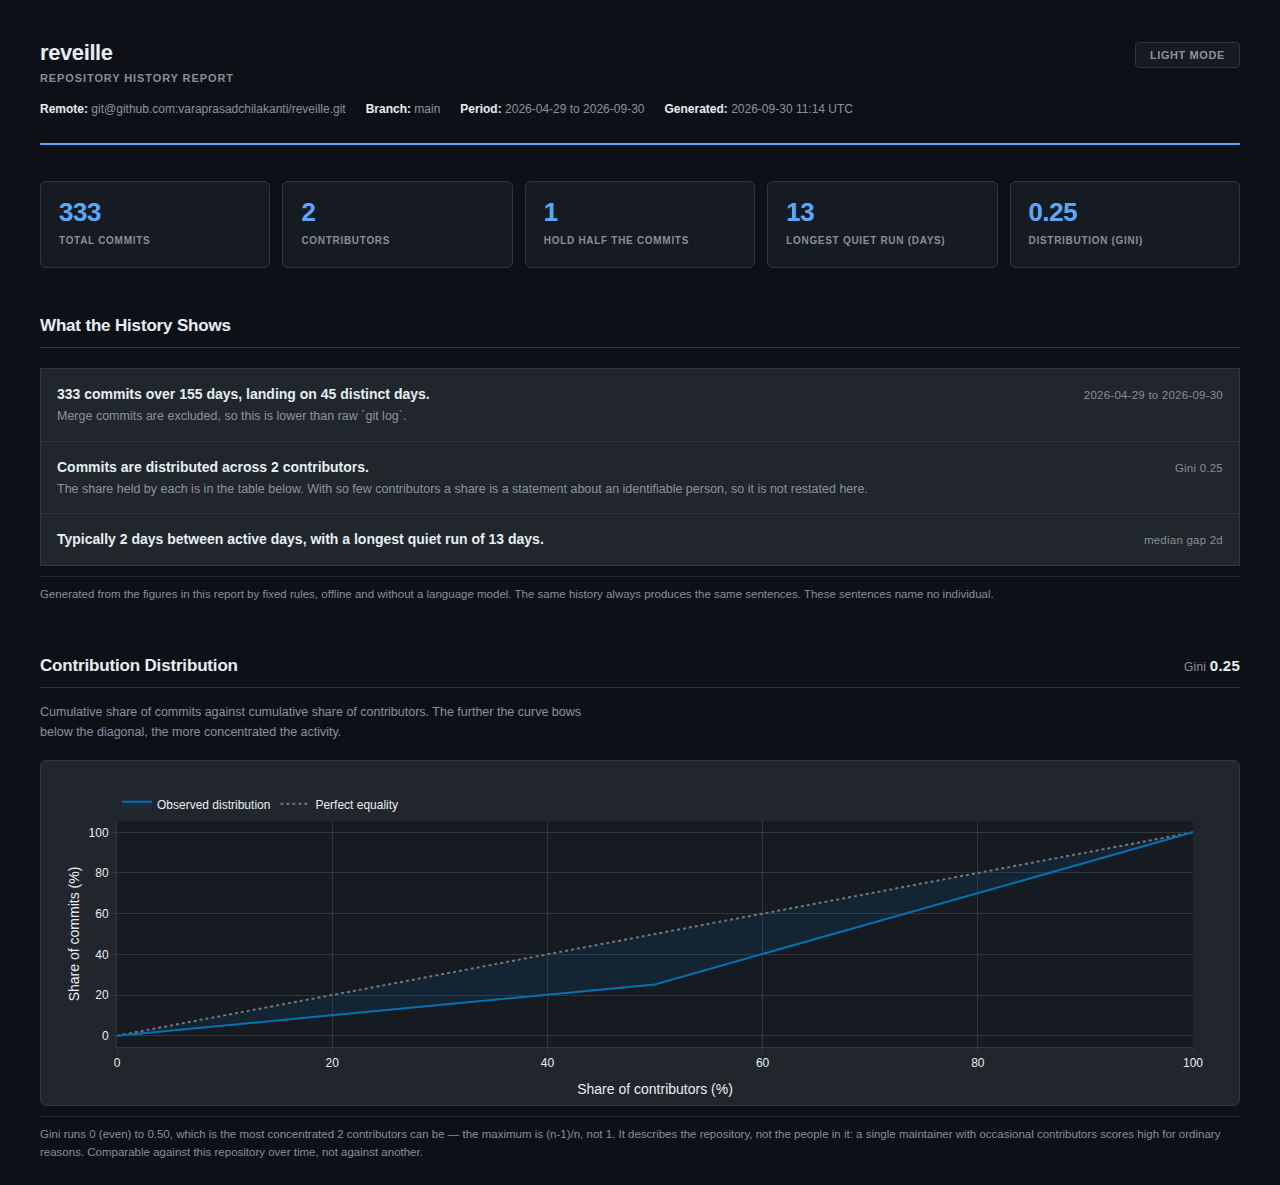
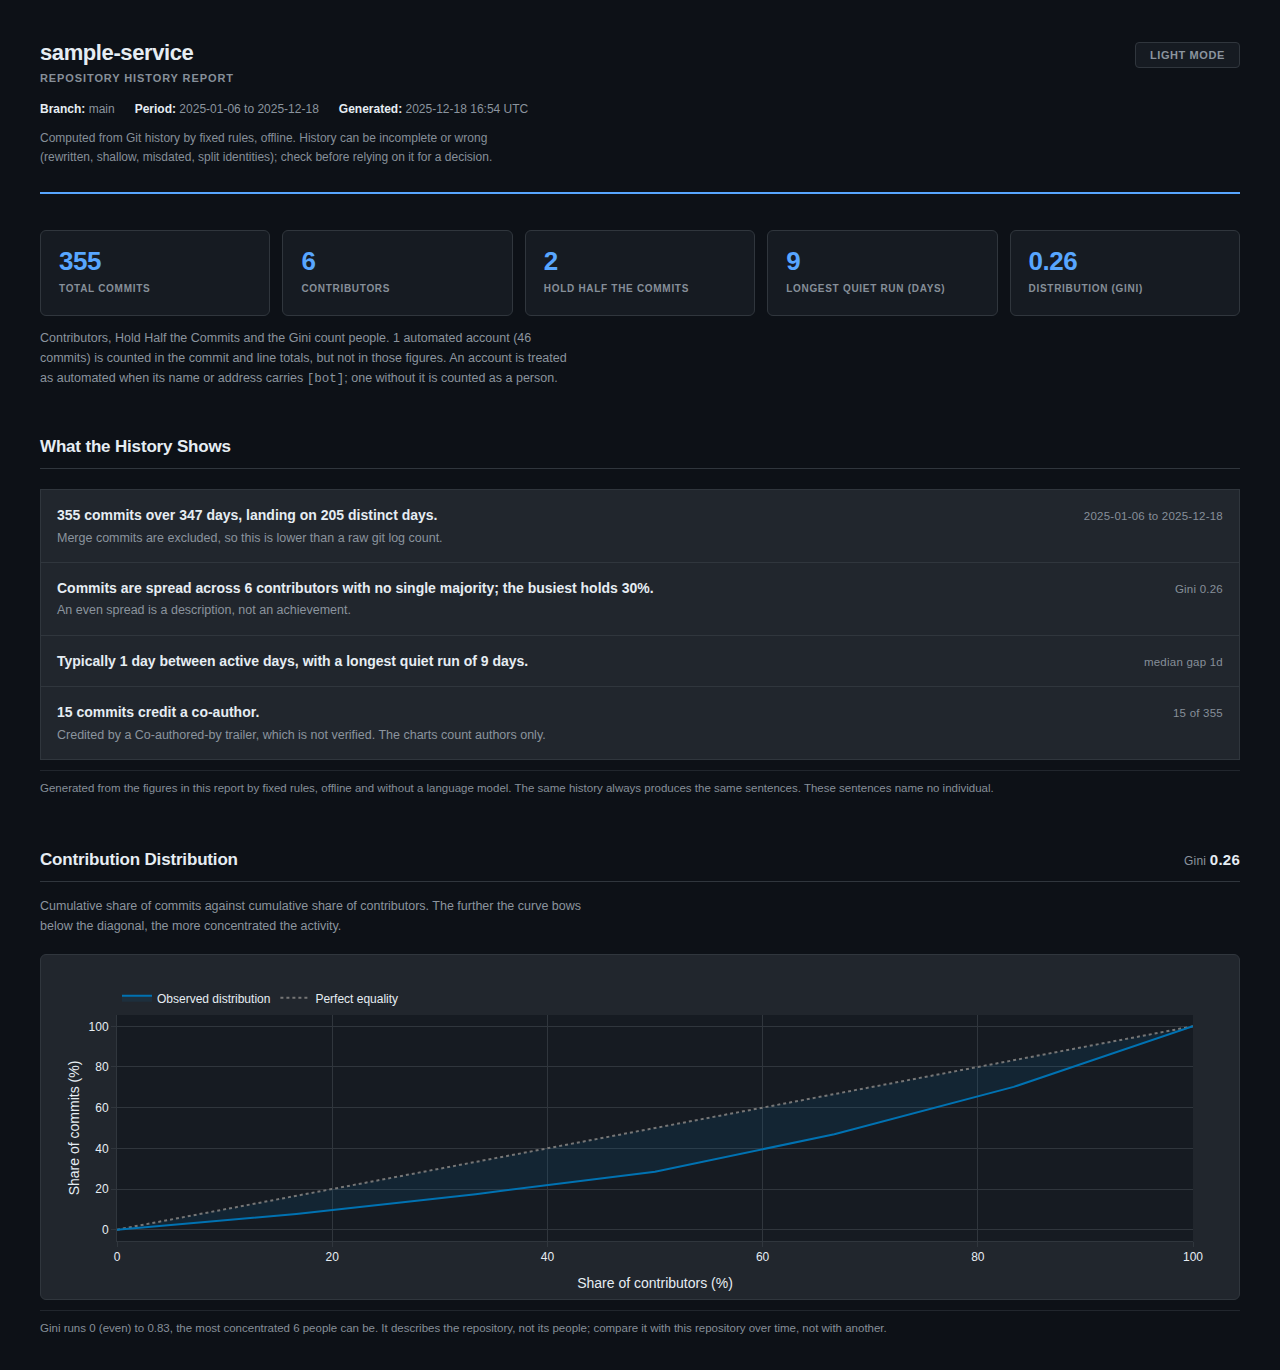
docs(readme): show the 0.9.0 report, of a sample that names nobody real
- The README's screenshot was taken on 2026-09-30 of this repository and
  contradicted 0.9.0: "2 contributors" and a Gini of 0.25 counted
  dependabot as a person, a finding printed literal backticks, and the
  limits notice and the profile were absent. With 0.9.0 a one-maintainer
  repository has no distribution to draw, so it is also a poor sample.
- docs/images/make_sample_repository.py builds a seeded sample: six
  invented people on example.com, dependabot, co-authors, lock files, a
  year of history. Built twice, its reports under --deterministic are
  byte-identical (head 57fe6a6).
- New images, light and dark, contiguous crops of the real page at
  1280 px: the top of the report (notice, cards, the automated-account
  note, findings, distribution) and the repository profile, placed under
  "Reading the Report". Alt text and a visible caption say it is a
  sample and how it was made.
- The diagram said Reveille reads "commit metadata and per-file line
  counts only"; it also reads Co-authored-by trailers, and now says so,
  in both themes and in the README's alt text.
- The README link guard checks the script's link: moving the file fails
  it. 1200 passed; pre-commit clean.

diff --git a/docs/images/make_sample_repository.py b/docs/images/make_sample_repository.py
@@ -1,0 +1,121 @@
+# SPDX-FileCopyrightText: 2026 Vara Prasad Chilakanti
+# SPDX-License-Identifier: Apache-2.0
+
+"""Build the sample repository the README's screenshots are taken from.
+
+The people are invented and their addresses are on `example.com`, reserved
+for documentation, so the README shows a real Reveille report without
+naming anyone real. The seed and the dates are fixed, so the same history,
+and the same report under `--deterministic`, comes out every time.
+
+Usage::
+
+    python docs/images/make_sample_repository.py /tmp/sample-service
+    cd /tmp/sample-service && reveille generate --deterministic
+"""
+
+from __future__ import annotations
+
+import datetime
+import os
+import random
+import subprocess
+import sys
+from pathlib import Path
+
+#: Invented people and how often each commits, plus one automated account.
+PEOPLE: tuple[tuple[str, str, float], ...] = (
+    ("Ana Silva", "ana.silva@example.com", 0.27),
+    ("Ben Okafor", "ben.okafor@example.com", 0.19),
+    ("Chen Wei", "chen.wei@example.com", 0.15),
+    ("Dara Kelly", "dara.kelly@example.com", 0.11),
+    ("Eli Moreau", "eli.moreau@example.com", 0.08),
+    ("Farah Haddad", "farah.haddad@example.com", 0.06),
+    ("dependabot[bot]", "49699333+dependabot[bot]@users.noreply.github.com", 0.14),
+)
+
+AREAS: tuple[str, ...] = (
+    "src/core",
+    "src/api/handlers",
+    "src/api/models",
+    "src/web/components",
+    "docs",
+    "tests/unit",
+    "tests/integration",
+)
+
+START = datetime.datetime(2025, 1, 6, 9, 0, tzinfo=datetime.UTC)
+DAYS = 350
+
+
+def _pick(rng: random.Random) -> tuple[str, str]:
+    """Choose an author, weighted by how often each commits.
+
+    Args:
+        rng: The seeded generator.
+
+    Returns:
+        The author's name and address.
+    """
+    roll, total = rng.random(), 0.0
+    for name, email, weight in PEOPLE:
+        total += weight
+        if roll <= total:
+            return name, email
+    return PEOPLE[0][0], PEOPLE[0][1]
+
+
+def build(target: Path) -> int:
+    """Write the sample history into a new repository at `target`.
+
+    Args:
+        target: A directory that does not exist yet.
+
+    Returns:
+        How many commits were made.
+    """
+    rng = random.Random(20260930)
+    target.mkdir(parents=True)
+    subprocess.run(["git", "init", "-q", "-b", "main"], cwd=target, check=True)
+    made = 0
+    for offset in range(DAYS):
+        day = START + datetime.timedelta(days=offset)
+        quiet = day.weekday() >= 5 or 150 <= offset < 172
+        if quiet and rng.random() < 0.85:
+            continue
+        for _ in range(rng.choice((0, 1, 1, 2, 2, 3))):
+            name, email = _pick(rng)
+            if name.endswith("[bot]"):
+                path = target / "package-lock.json"
+                path.write_text(path.read_text() if path.exists() else "", encoding="utf-8")
+                with path.open("a", encoding="utf-8") as lock:
+                    lock.write("{}\n" * rng.randint(10, 300))
+            else:
+                area = target / rng.choice(AREAS)
+                area.mkdir(parents=True, exist_ok=True)
+                suffix = rng.choice((".py", ".py", ".ts", ".md", ".yml"))
+                with (area / f"part{rng.randint(1, 9)}{suffix}").open("a", encoding="utf-8") as f:
+                    f.write("line\n" * rng.randint(1, 160))
+            made += 1
+            stamp = (day + datetime.timedelta(hours=rng.randint(0, 8), minutes=made % 60)).isoformat()
+            message = f"change {made}"
+            if not name.endswith("[bot]") and rng.random() < 0.07:
+                message += "\n\nCo-authored-by: Farah Haddad <farah.haddad@example.com>"
+            env = {
+                **os.environ,
+                "GIT_AUTHOR_NAME": name,
+                "GIT_AUTHOR_EMAIL": email,
+                "GIT_COMMITTER_NAME": name,
+                "GIT_COMMITTER_EMAIL": email,
+                "GIT_AUTHOR_DATE": stamp,
+                "GIT_COMMITTER_DATE": stamp,
+            }
+            subprocess.run(["git", "add", "-A"], cwd=target, check=True, env=env)
+            subprocess.run(["git", "commit", "-qm", message], cwd=target, check=True, env=env)
+    return made
+
+
+if __name__ == "__main__":
+    if len(sys.argv) != 2:
+        sys.exit("usage: make_sample_repository.py <new-directory>")
+    print(f"{build(Path(sys.argv[1]))} commits")

diff --git a/README.md b/README.md
@@ -10,8 +10,12 @@
 
 <picture>
   <source media="(prefers-color-scheme: dark)" srcset="https://raw.githubusercontent.com/varaprasadchilakanti/reveille/main/docs/images/report-dark.png">
-  <img src="https://raw.githubusercontent.com/varaprasadchilakanti/reveille/main/docs/images/report-light.png" width="860" alt="The top of a Reveille report for this repository: five summary figures, three findings in plain sentences, and a Lorenz curve showing how commits are spread across contributors.">
+  <img src="https://raw.githubusercontent.com/varaprasadchilakanti/reveille/main/docs/images/report-light.png" width="860" alt="The top of a Reveille report for a sample repository with invented contributors: the report's statement of its own limits, five summary figures with a note that one automated account is counted in the totals but not as a person, four findings in plain sentences, and a Lorenz curve of how commits are spread across six people.">
 </picture>
+
+*A report for a sample repository with invented contributors, built by
+[`docs/images/make_sample_repository.py`](https://github.com/varaprasadchilakanti/reveille/blob/main/docs/images/make_sample_repository.py)
+and rendered with `reveille generate --deterministic`.*
 
 Reveille reads a repository's Git history on your machine and writes one self-contained HTML
 report: a contribution calendar, weekly activity, how evenly commits are spread across
@@ -190,6 +194,11 @@ The report reads top to bottom, findings first and evidence after:
    big changes are, which paths absorb them, and what kind of files they touch.
 7. **Per-Contributor Commit Frequency**, **Contributors** and **Contribution Breakdown** — the
    figures per person.
+
+<picture>
+  <source media="(prefers-color-scheme: dark)" srcset="https://raw.githubusercontent.com/varaprasadchilakanti/reveille/main/docs/images/profile-dark.png">
+  <img src="https://raw.githubusercontent.com/varaprasadchilakanti/reveille/main/docs/images/profile-light.png" width="860" alt="The Repository Profile of the same sample report: six petals for continuity, recent work, shared, collaboration, revisiting and automation, each petal's length its share, beside a table giving each share and what evenly spread activity would give.">
+</picture>
 
 Two sections appear only when asked for: **Who Changed Each Area** (`--area-authors`) and the
 **Contributor Rankings** form of the table (`--ranking`).

diff --git a/CHANGELOG.md b/CHANGELOG.md
@@ -114,6 +114,8 @@ Everything below is measured against 0.8.1.
 - **The README and User Guide are written for the people who download it**: who it is for,
   install and uninstall, the report's sections in order, what it contains about people, and
   troubleshooting. Development material lives in `CONTRIBUTING.md`.
+  Its screenshots are of a sample repository with invented contributors, built by a seeded
+  script in `docs/images/`, so they show this release's report and name nobody real.
 
 ### Fixed
 
